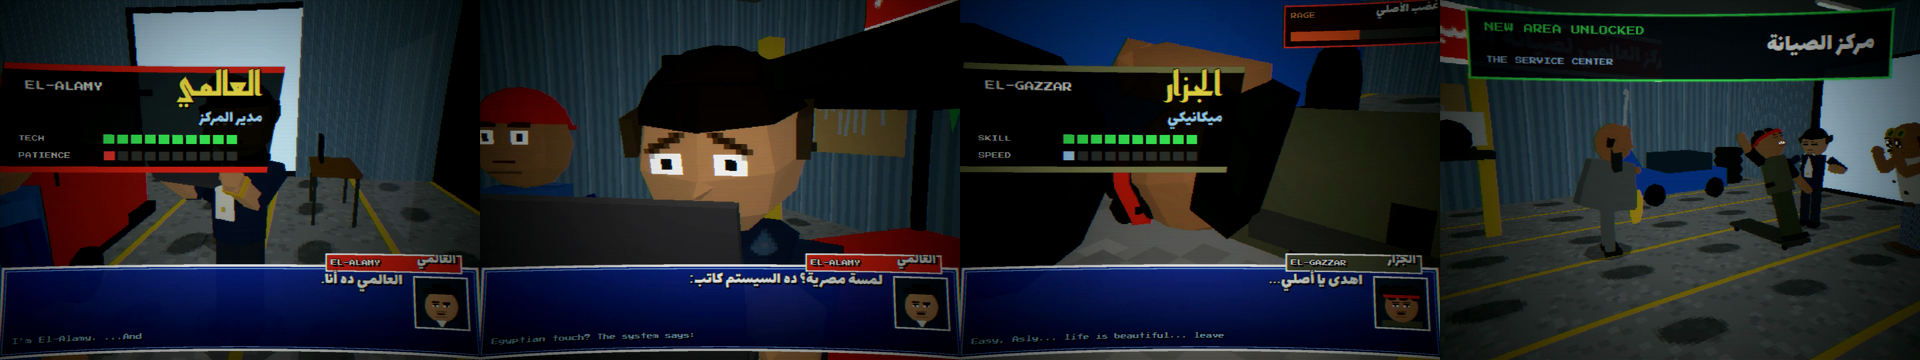
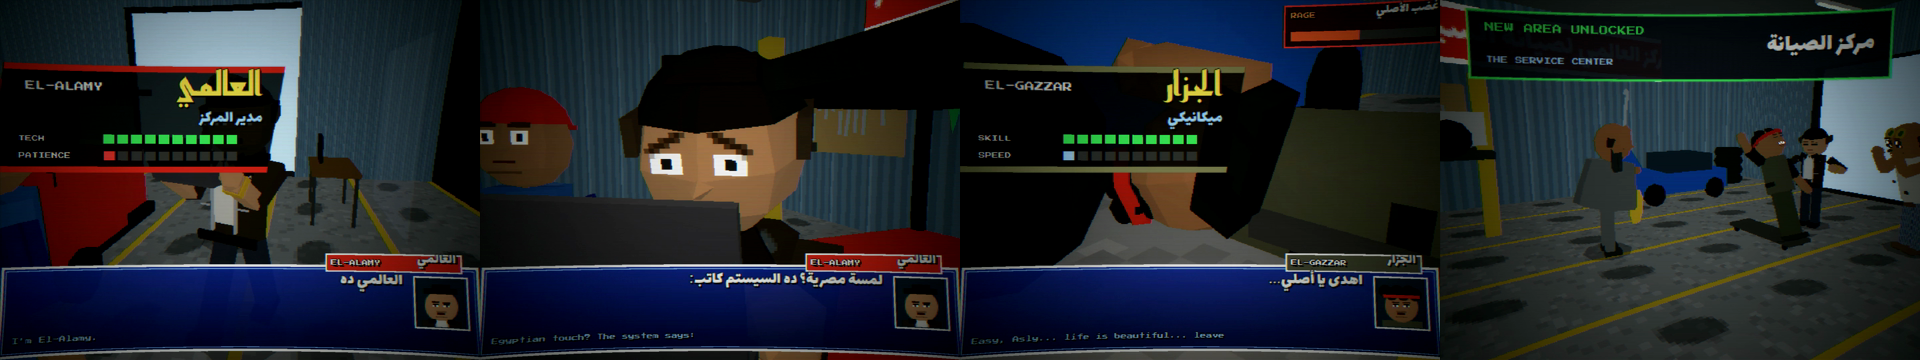
markaz-el-siana: El-Alamy now wears a leather jacket over a white tee
Claude-Session: https://claude.ai/code/session_01AGkU7xrbvxEyJ1BmPLBUAN

diff --git a/docs/briefs/markaz-el-siana-src/scene11.js b/docs/briefs/markaz-el-siana-src/scene11.js
@@ -568,6 +568,7 @@ function drawDialogue(g, t) {
   if (n >= words.length && Math.floor(t * 4) % 2) { g.fillStyle = '#fff'; g.beginPath(); g.moveTo(x + 22, y + 74); g.lineTo(x + 32, y + 74); g.lineTo(x + 27, y + 80); g.fill(); }
 }
 
+
 // =====================================================================
 // مركز الصيانة — the service center (new cast: Bastam, El-Alamy, El-Asly, El-Gazzar)
 // =====================================================================
@@ -668,19 +669,23 @@ const bastam = makeChar({ seed: 61, skin: 0xb07a50, hipY: 0.84, legX: 0.11, legC
   torsoGeo: cyl(0.24, 0.26, 0.64, 6), torsoTex: coverall('#2f5fb0'), torsoColor: 0xffffff, torsoY: 0.32, sleeve: true, sleeveColor: 0x2f5fb0, shoulderX: 0.3, shoulderY: 0.57, neckY: 0.64, headR: 0.27,
   build(head, torso, reg) { const cap = mesh(new THREE.SphereGeometry(0.28, 8, 4, 0, Math.PI * 2, 0, Math.PI * 0.42), reg(M(0xd8231b)), 0, 0.04, 0, head); mesh(box(0.3, 0.03, 0.2), reg(M(0xd8231b)), 0, 0.1, -0.3, head); mesh(box(0.12, 0.08, 0.02), reg(M(0xffffff)), 0.12, 0.45, 0.25, torso); return {}; } }, scene);
 const alamy = makeChar({ seed: 71, skin: 0xc8946a, hipY: 0.86, legX: 0.11, legColor: 0x262a36, shoe: 0x0c0c10, hand: 0xc8946a,
-  torsoGeo: cyl(0.25, 0.22, 0.64, 8), torsoTex: null, torsoColor: 0x1c2440, torsoY: 0.32, sleeve: true, sleeveColor: 0x1c2440, shoulderX: 0.31, shoulderY: 0.57, neckY: 0.64, headR: 0.27,
+  torsoGeo: cyl(0.25, 0.22, 0.64, 8), torsoTex: null, torsoColor: 0x2a1f19, torsoY: 0.32, sleeve: true, sleeveColor: 0x2a1f19, shoulderX: 0.31, shoulderY: 0.57, neckY: 0.64, headR: 0.27,
   build(head, torso, reg) {
     // styled hair: short fade on the sides, volume swept up at the front
     const hair = reg(M(0x15100b));
     mesh(new THREE.SphereGeometry(0.285, 8, 4, 0, Math.PI * 2, 0, Math.PI * 0.38), hair, 0, 0.02, -0.02, head);
     const quiff = mesh(box(0.24, 0.07, 0.12), hair, 0.03, 0.255, 0.13, head); quiff.rotation.x = -0.3;
     for (const sx of [-1, 1]) mesh(box(0.04, 0.12, 0.3), reg(M(0x3a2a20)), sx * 0.26, 0.06, -0.06, head);
-    // crisp white shirt, open collar, dark lapels, pocket square
-    mesh(box(0.15, 0.44, 0.02), reg(M(0xf6f6f2)), 0, 0.42, 0.236, torso);
-    for (const sx of [-1, 1]) { const lap = mesh(box(0.07, 0.36, 0.025), reg(M(0x141a30)), sx * 0.09, 0.5, 0.245, torso); lap.rotation.z = sx * 0.32; }
-    for (const sx of [-1, 1]) { const col = mesh(box(0.08, 0.05, 0.03), reg(M(0xffffff)), sx * 0.06, 0.66, 0.235, torso); col.rotation.z = sx * 0.6; }
-    mesh(box(0.06, 0.03, 0.01), reg(M(0xffffff)), -0.15, 0.48, 0.25, torso);
-    mesh(box(0.035, 0.035, 0.01), reg(M(0xd8c060)), 0, 0.28, 0.25, torso); // blazer button
+    // cool leather jacket, open over a plain white tee
+    mesh(box(0.17, 0.46, 0.02), reg(M(0xf2f2ee)), 0, 0.4, 0.236, torso);
+    mesh(box(0.12, 0.025, 0.025), reg(M(0xf2f2ee)), 0, 0.64, 0.23, torso);
+    for (const sx of [-1, 1]) {
+      const z = mesh(box(0.018, 0.5, 0.03), reg(M(0xb9bcc4)), sx * 0.095, 0.36, 0.248, torso); // open zipper edge
+      const col = mesh(box(0.13, 0.17, 0.03), reg(M(0x17110d)), sx * 0.13, 0.6, 0.24, torso); col.rotation.z = sx * 0.5; // wide leather collar
+      mesh(box(0.08, 0.012, 0.012), reg(M(0xb9bcc4)), sx * 0.16, 0.3, 0.25, torso); // chest pocket zip
+      mesh(box(0.02, 0.02, 0.01), reg(M(0xb9bcc4)), sx * 0.21, 0.55, 0.25, torso); // collar snap
+    }
+    mesh(box(0.5, 0.07, 0.03), reg(M(0x17110d)), 0, 0.04, 0.215, torso); // waistband
     return {};
   } }, scene);
 // gold watch on the left wrist, polished shoes
@@ -844,10 +849,10 @@ function portrait(g, x, y, who, t) {
   g.fillStyle = '#123'; g.fillRect(x, y, 64, 64); g.strokeStyle = '#fff'; g.lineWidth = 2; g.strokeRect(x, y, 64, 64);
   g.save(); g.beginPath(); g.rect(x + 2, y + 2, 60, 60); g.clip();
   const skin = { bastam: '#b07a50', alamy: '#c08a60', asly: '#a86a40', gazzar: '#a87048', dad: '#b27448' }[who];
-  const shirt = { bastam: '#2f5fb0', alamy: '#1c2440', asly: '#6a6a6a', gazzar: '#4a4a38', dad: '#f3f0e3' }[who];
+  const shirt = { bastam: '#2f5fb0', alamy: '#2a1f19', asly: '#6a6a6a', gazzar: '#4a4a38', dad: '#f3f0e3' }[who];
   g.fillStyle = shirt; g.fillRect(x + 8, y + 54, 48, 10); g.fillStyle = skin; g.beginPath(); g.arc(x + 32, y + 36, who === 'asly' ? 23 : 20, 0, 7); g.fill();
   if (who === 'bastam') { g.fillStyle = '#d8231b'; g.beginPath(); g.arc(x + 32, y + 26, 21, Math.PI, 0); g.fill(); }
-  if (who === 'alamy') { g.fillStyle = '#f6f6f2'; g.beginPath(); g.moveTo(x + 26, y + 54); g.lineTo(x + 38, y + 54); g.lineTo(x + 32, y + 64); g.fill(); g.fillStyle = '#15100b'; g.fillRect(x + 12, y + 14, 40, 7); g.fillRect(x + 22, y + 9, 22, 7); }
+  if (who === 'alamy') { g.fillStyle = '#f2f2ee'; g.fillRect(x + 26, y + 54, 12, 10); g.fillStyle = '#b9bcc4'; g.fillRect(x + 24, y + 56, 2, 8); g.fillRect(x + 38, y + 56, 2, 8); g.fillStyle = '#17110d'; g.fillRect(x + 16, y + 52, 9, 6); g.fillRect(x + 39, y + 52, 9, 6); g.fillStyle = '#15100b'; g.fillRect(x + 12, y + 14, 40, 7); g.fillRect(x + 22, y + 9, 22, 7); }
   if (who === 'gazzar') { g.fillStyle = '#120c08'; for (let i = 0; i < 6; i++) { g.beginPath(); g.arc(x + 14 + i * 7, y + 18 + (i % 2) * 3, 8, 0, 7); g.fill(); } g.fillStyle = '#d8231b'; g.fillRect(x + 10, y + 22, 44, 4); }
   if (who === 'dad') { g.fillStyle = '#1b1410'; g.fillRect(x + 10, y + 30, 5, 12); g.fillRect(x + 49, y + 30, 5, 12); g.fillStyle = '#c9a227'; g.fillRect(x + 14, y + 16, 36, 5); }
   const fc = document.createElement('canvas'); fc.width = 32; fc.height = 32; const fg = fc.getContext('2d');

diff --git a/docs/briefs/markaz-el-siana-src/ep11.js b/docs/briefs/markaz-el-siana-src/ep11.js
@@ -64,19 +64,23 @@ const bastam = makeChar({ seed: 61, skin: 0xb07a50, hipY: 0.84, legX: 0.11, legC
   torsoGeo: cyl(0.24, 0.26, 0.64, 6), torsoTex: coverall('#2f5fb0'), torsoColor: 0xffffff, torsoY: 0.32, sleeve: true, sleeveColor: 0x2f5fb0, shoulderX: 0.3, shoulderY: 0.57, neckY: 0.64, headR: 0.27,
   build(head, torso, reg) { const cap = mesh(new THREE.SphereGeometry(0.28, 8, 4, 0, Math.PI * 2, 0, Math.PI * 0.42), reg(M(0xd8231b)), 0, 0.04, 0, head); mesh(box(0.3, 0.03, 0.2), reg(M(0xd8231b)), 0, 0.1, -0.3, head); mesh(box(0.12, 0.08, 0.02), reg(M(0xffffff)), 0.12, 0.45, 0.25, torso); return {}; } }, scene);
 const alamy = makeChar({ seed: 71, skin: 0xc8946a, hipY: 0.86, legX: 0.11, legColor: 0x262a36, shoe: 0x0c0c10, hand: 0xc8946a,
-  torsoGeo: cyl(0.25, 0.22, 0.64, 8), torsoTex: null, torsoColor: 0x1c2440, torsoY: 0.32, sleeve: true, sleeveColor: 0x1c2440, shoulderX: 0.31, shoulderY: 0.57, neckY: 0.64, headR: 0.27,
+  torsoGeo: cyl(0.25, 0.22, 0.64, 8), torsoTex: null, torsoColor: 0x2a1f19, torsoY: 0.32, sleeve: true, sleeveColor: 0x2a1f19, shoulderX: 0.31, shoulderY: 0.57, neckY: 0.64, headR: 0.27,
   build(head, torso, reg) {
     // styled hair: short fade on the sides, volume swept up at the front
     const hair = reg(M(0x15100b));
     mesh(new THREE.SphereGeometry(0.285, 8, 4, 0, Math.PI * 2, 0, Math.PI * 0.38), hair, 0, 0.02, -0.02, head);
     const quiff = mesh(box(0.24, 0.07, 0.12), hair, 0.03, 0.255, 0.13, head); quiff.rotation.x = -0.3;
     for (const sx of [-1, 1]) mesh(box(0.04, 0.12, 0.3), reg(M(0x3a2a20)), sx * 0.26, 0.06, -0.06, head);
-    // crisp white shirt, open collar, dark lapels, pocket square
-    mesh(box(0.15, 0.44, 0.02), reg(M(0xf6f6f2)), 0, 0.42, 0.236, torso);
-    for (const sx of [-1, 1]) { const lap = mesh(box(0.07, 0.36, 0.025), reg(M(0x141a30)), sx * 0.09, 0.5, 0.245, torso); lap.rotation.z = sx * 0.32; }
-    for (const sx of [-1, 1]) { const col = mesh(box(0.08, 0.05, 0.03), reg(M(0xffffff)), sx * 0.06, 0.66, 0.235, torso); col.rotation.z = sx * 0.6; }
-    mesh(box(0.06, 0.03, 0.01), reg(M(0xffffff)), -0.15, 0.48, 0.25, torso);
-    mesh(box(0.035, 0.035, 0.01), reg(M(0xd8c060)), 0, 0.28, 0.25, torso); // blazer button
+    // cool leather jacket, open over a plain white tee
+    mesh(box(0.17, 0.46, 0.02), reg(M(0xf2f2ee)), 0, 0.4, 0.236, torso);
+    mesh(box(0.12, 0.025, 0.025), reg(M(0xf2f2ee)), 0, 0.64, 0.23, torso);
+    for (const sx of [-1, 1]) {
+      const z = mesh(box(0.018, 0.5, 0.03), reg(M(0xb9bcc4)), sx * 0.095, 0.36, 0.248, torso); // open zipper edge
+      const col = mesh(box(0.13, 0.17, 0.03), reg(M(0x17110d)), sx * 0.13, 0.6, 0.24, torso); col.rotation.z = sx * 0.5; // wide leather collar
+      mesh(box(0.08, 0.012, 0.012), reg(M(0xb9bcc4)), sx * 0.16, 0.3, 0.25, torso); // chest pocket zip
+      mesh(box(0.02, 0.02, 0.01), reg(M(0xb9bcc4)), sx * 0.21, 0.55, 0.25, torso); // collar snap
+    }
+    mesh(box(0.5, 0.07, 0.03), reg(M(0x17110d)), 0, 0.04, 0.215, torso); // waistband
     return {};
   } }, scene);
 // gold watch on the left wrist, polished shoes
@@ -240,10 +244,10 @@ function portrait(g, x, y, who, t) {
   g.fillStyle = '#123'; g.fillRect(x, y, 64, 64); g.strokeStyle = '#fff'; g.lineWidth = 2; g.strokeRect(x, y, 64, 64);
   g.save(); g.beginPath(); g.rect(x + 2, y + 2, 60, 60); g.clip();
   const skin = { bastam: '#b07a50', alamy: '#c08a60', asly: '#a86a40', gazzar: '#a87048', dad: '#b27448' }[who];
-  const shirt = { bastam: '#2f5fb0', alamy: '#1c2440', asly: '#6a6a6a', gazzar: '#4a4a38', dad: '#f3f0e3' }[who];
+  const shirt = { bastam: '#2f5fb0', alamy: '#2a1f19', asly: '#6a6a6a', gazzar: '#4a4a38', dad: '#f3f0e3' }[who];
   g.fillStyle = shirt; g.fillRect(x + 8, y + 54, 48, 10); g.fillStyle = skin; g.beginPath(); g.arc(x + 32, y + 36, who === 'asly' ? 23 : 20, 0, 7); g.fill();
   if (who === 'bastam') { g.fillStyle = '#d8231b'; g.beginPath(); g.arc(x + 32, y + 26, 21, Math.PI, 0); g.fill(); }
-  if (who === 'alamy') { g.fillStyle = '#f6f6f2'; g.beginPath(); g.moveTo(x + 26, y + 54); g.lineTo(x + 38, y + 54); g.lineTo(x + 32, y + 64); g.fill(); g.fillStyle = '#15100b'; g.fillRect(x + 12, y + 14, 40, 7); g.fillRect(x + 22, y + 9, 22, 7); }
+  if (who === 'alamy') { g.fillStyle = '#f2f2ee'; g.fillRect(x + 26, y + 54, 12, 10); g.fillStyle = '#b9bcc4'; g.fillRect(x + 24, y + 56, 2, 8); g.fillRect(x + 38, y + 56, 2, 8); g.fillStyle = '#17110d'; g.fillRect(x + 16, y + 52, 9, 6); g.fillRect(x + 39, y + 52, 9, 6); g.fillStyle = '#15100b'; g.fillRect(x + 12, y + 14, 40, 7); g.fillRect(x + 22, y + 9, 22, 7); }
   if (who === 'gazzar') { g.fillStyle = '#120c08'; for (let i = 0; i < 6; i++) { g.beginPath(); g.arc(x + 14 + i * 7, y + 18 + (i % 2) * 3, 8, 0, 7); g.fill(); } g.fillStyle = '#d8231b'; g.fillRect(x + 10, y + 22, 44, 4); }
   if (who === 'dad') { g.fillStyle = '#1b1410'; g.fillRect(x + 10, y + 30, 5, 12); g.fillRect(x + 49, y + 30, 5, 12); g.fillStyle = '#c9a227'; g.fillRect(x + 14, y + 16, 36, 5); }
   const fc = document.createElement('canvas'); fc.width = 32; fc.height = 32; const fg = fc.getContext('2d');

diff --git a/docs/briefs/SERIES_NOTES.md b/docs/briefs/SERIES_NOTES.md
@@ -87,7 +87,7 @@
 | El-Alamy (العالمي) | 28 | Center manager. Handles the computer, tuning and admin. Everyone loves him, but he thinks nobody understands anything | Rasalgethi |
 
 **El-Alamy's look (user request, applies to every episode after "The Service Center"):** NO glasses. A handsome, sharp-dressed young man:
-fitted dark blazer over a crisp shirt, neat styled hair with a fade, clean-shaven or a trimmed short beard, a watch, and polished shoes.
+cool dark leather jacket (wide collar, silver zips) worn open over a plain white tee, neat styled hair with a fade, clean-shaven or a trimmed short beard, a watch, and polished shoes.
 He is a genius: confident, calm, smart eyes (not the tired face). Drop the `glasses` face option and the plain polo model used in "The Service Center".
 | El-Asly (الأصلي) | 43 | Heavy electrician. Always shouting and wants to hit someone | Alnilam |
 | El-Gazzar (الجزار) | 30 | Brilliant mechanic, always "spaced out". Keep it implicit: no drug imagery, for platform safety | Umbriel |
